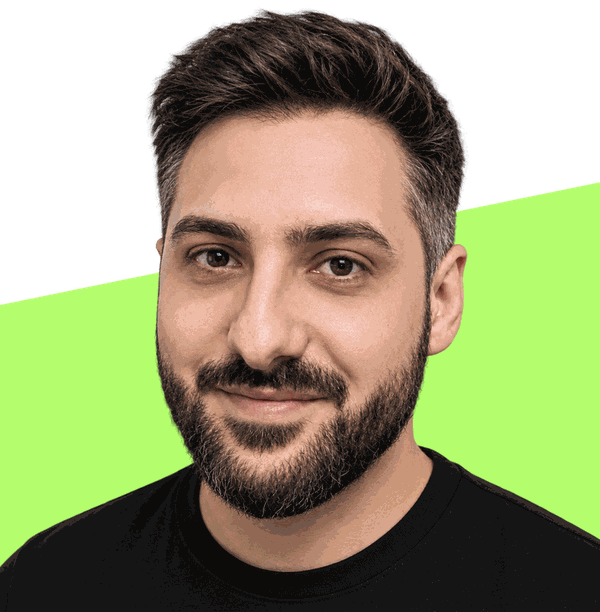
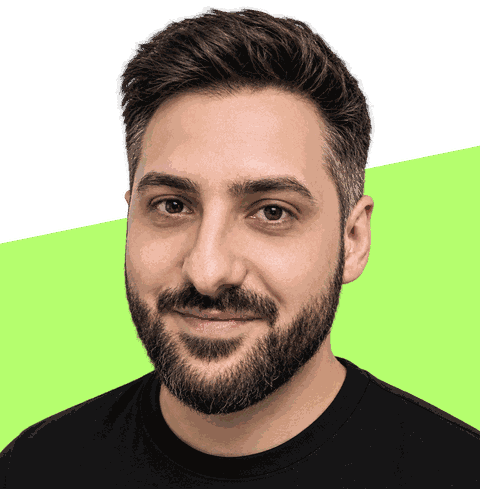
Profile photo: compress further (AVIF 20 KB, WebP 30 KB, PNG fallback 43 KB)
Claude-Session: https://claude.ai/code/session_0143hwGS45czcYLnANefjZ5K

diff --git a/README.md b/README.md
@@ -12,9 +12,9 @@ No build step, so it works as-is on GitHub Pages: https://barsmin.github.io/
 
 ## Profile photo
 
-The photo exists in three formats in `assets/images/`: `profile.avif` (~30 KB), `profile.webp` (~40 KB) and `profile.png` (~75 KB, the fallback for very old browsers). The page uses a `<picture>` tag, so every browser downloads only the smallest one it understands (the old PNG was 160 KB). The CV uses the same files.
+The photo exists in three formats in `assets/images/`: `profile.avif` (~20 KB), `profile.webp` (~30 KB) and `profile.png` (~45 KB, a smaller fallback for very old browsers). The page uses a `<picture>` tag, so every browser downloads only the smallest one it understands (the old PNG was 160 KB). The CV uses the same files.
 
-All three are the same image, 720 px wide with a transparent background. To change the photo, send the new PNG (transparent background, at least ~1200 px wide) and re-export all three, otherwise browsers will keep showing the old one from the first format they support. The photo area on the page is 300×306 px (about 478 px wide on tablets), so 720 px is already sharp on phones and retina screens.
+All three are the same image with a transparent background (720 px wide; the PNG fallback 480 px). To change the photo, send the new PNG (transparent background, at least ~1200 px wide) and re-export all three, otherwise browsers will keep showing the old one from the first format they support. The photo area on the page is 300×306 px (about 478 px wide on tablets), so 720 px is already sharp on phones and retina screens.
 
 Photo not showing? Open `https://barsmin.github.io/assets/images/profile.png` directly. If that is a 404, check that the files are inside `assets/images/`, named exactly like above (on Windows turn on *View → File name extensions*) and pushed. GitHub Pages needs about a minute, then hard-refresh (Ctrl/Cmd + Shift + R).
 
